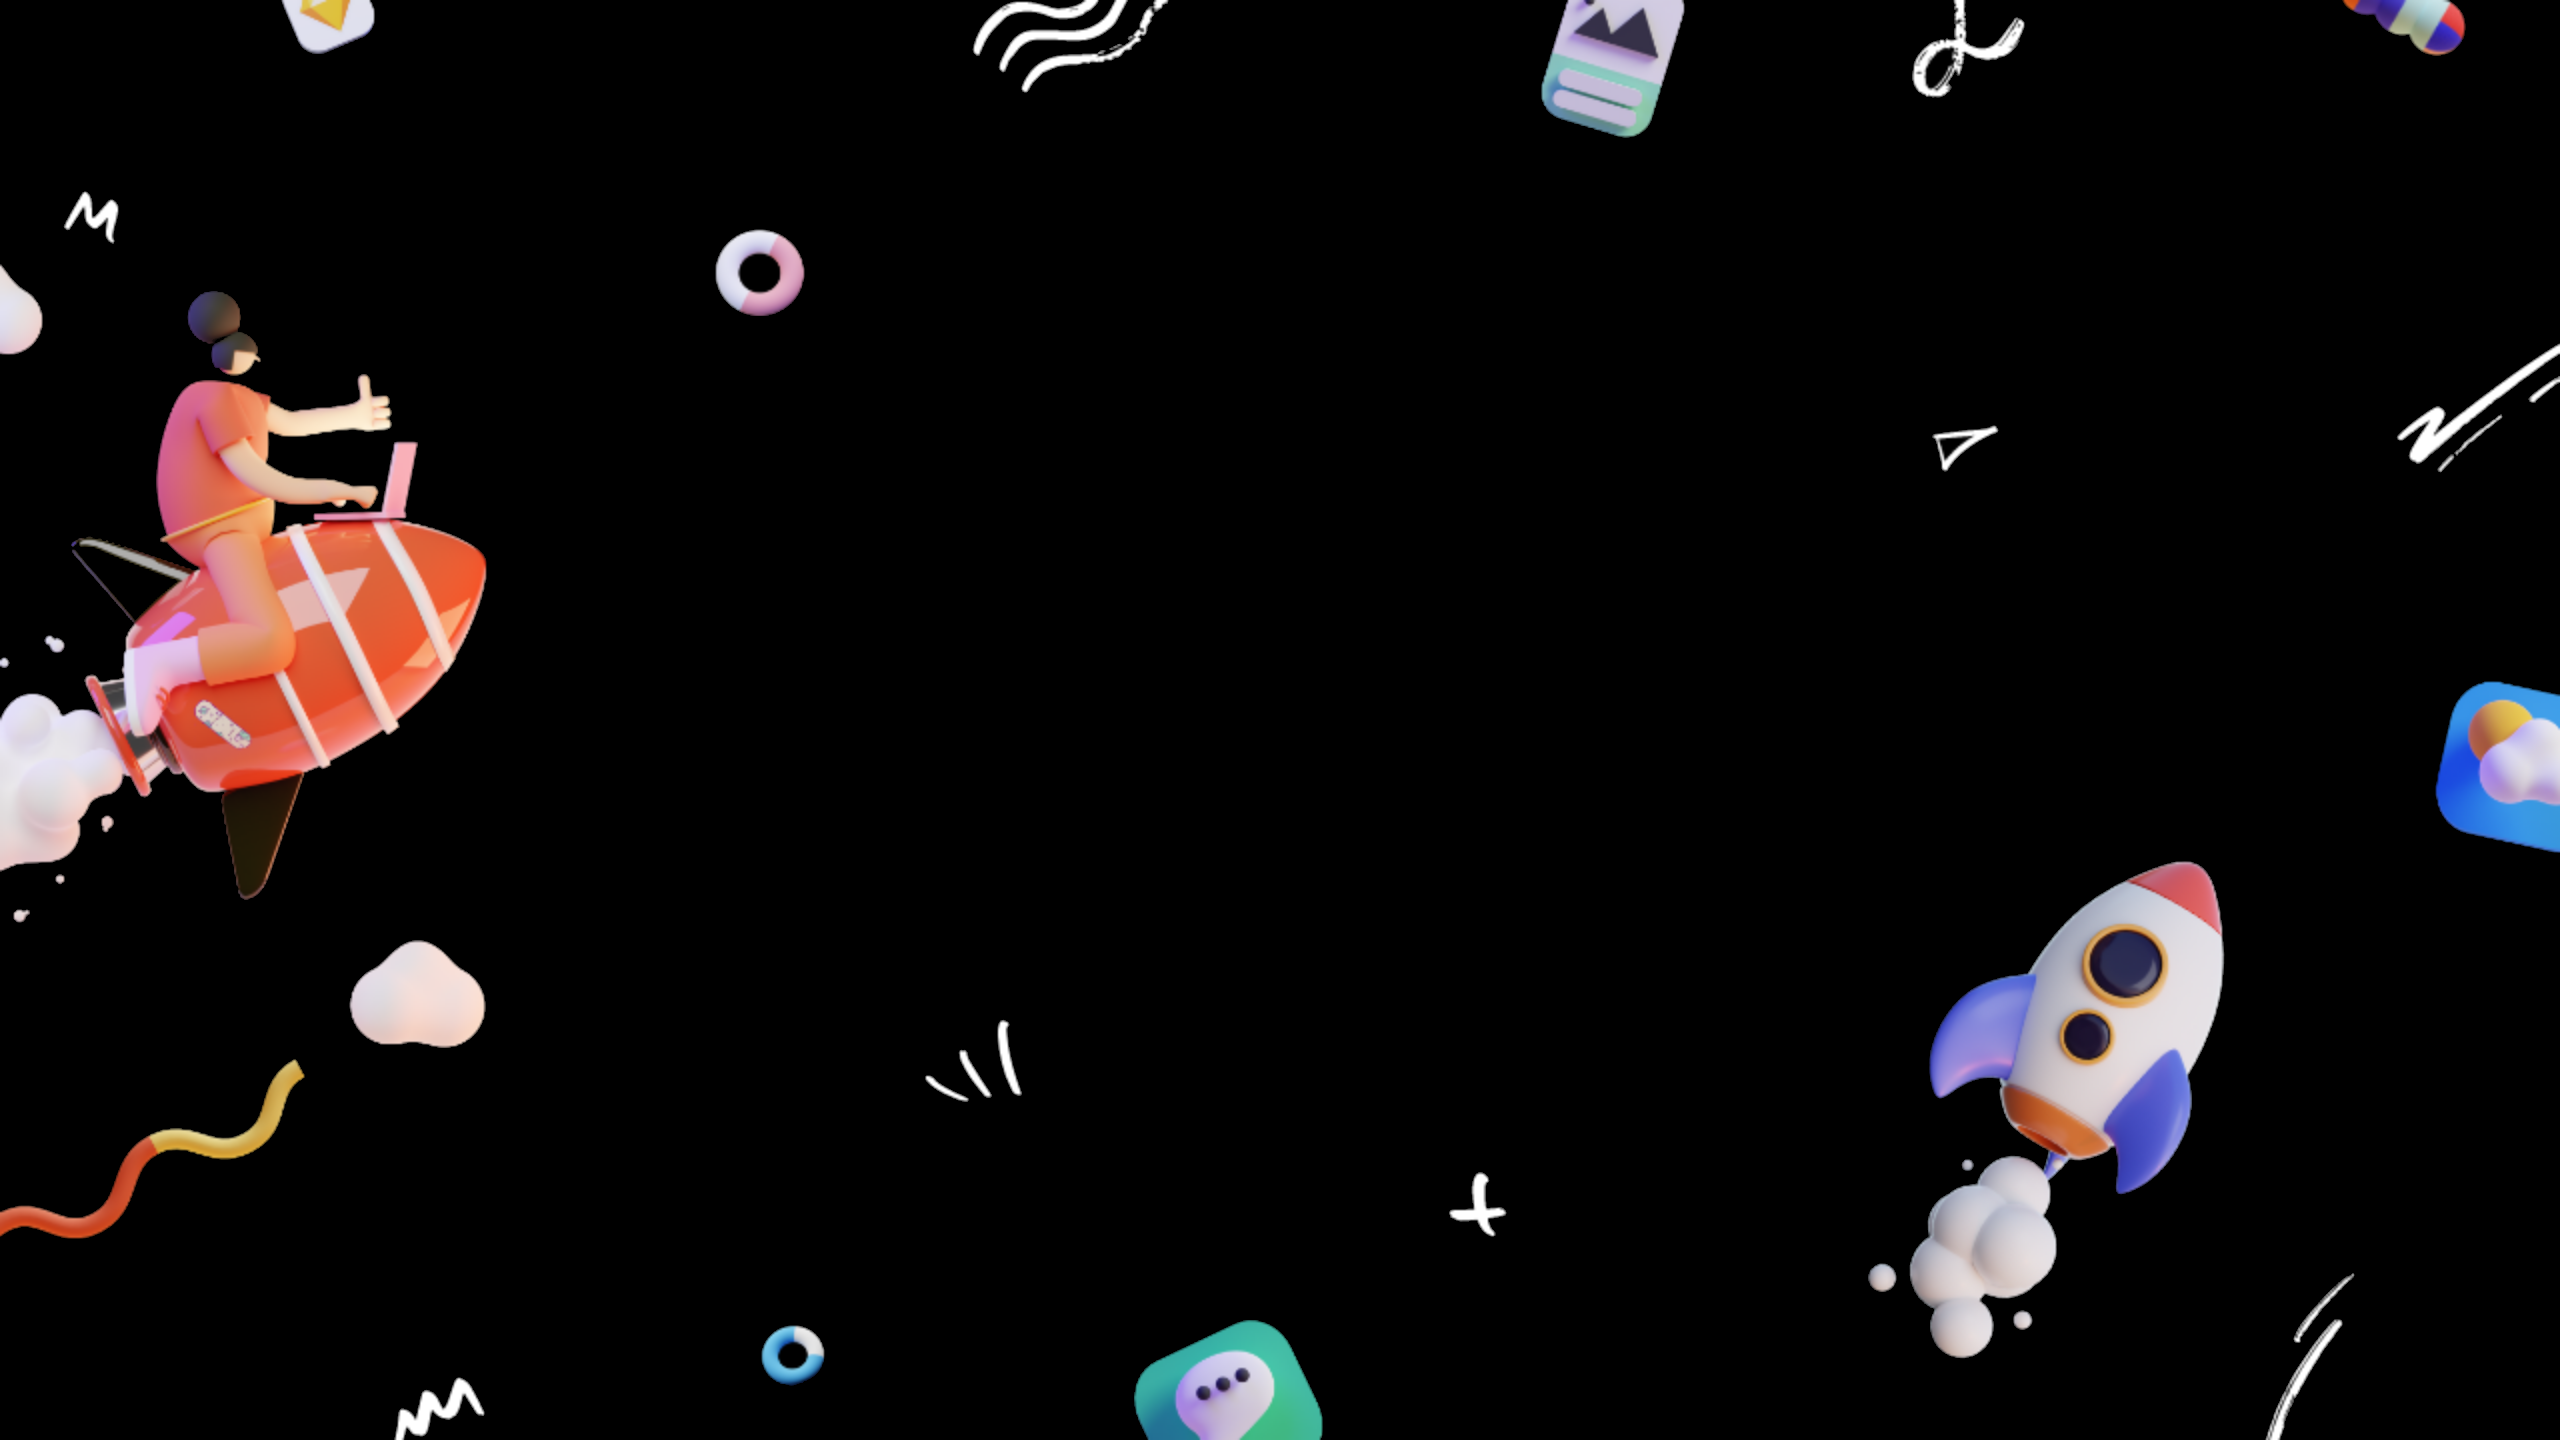
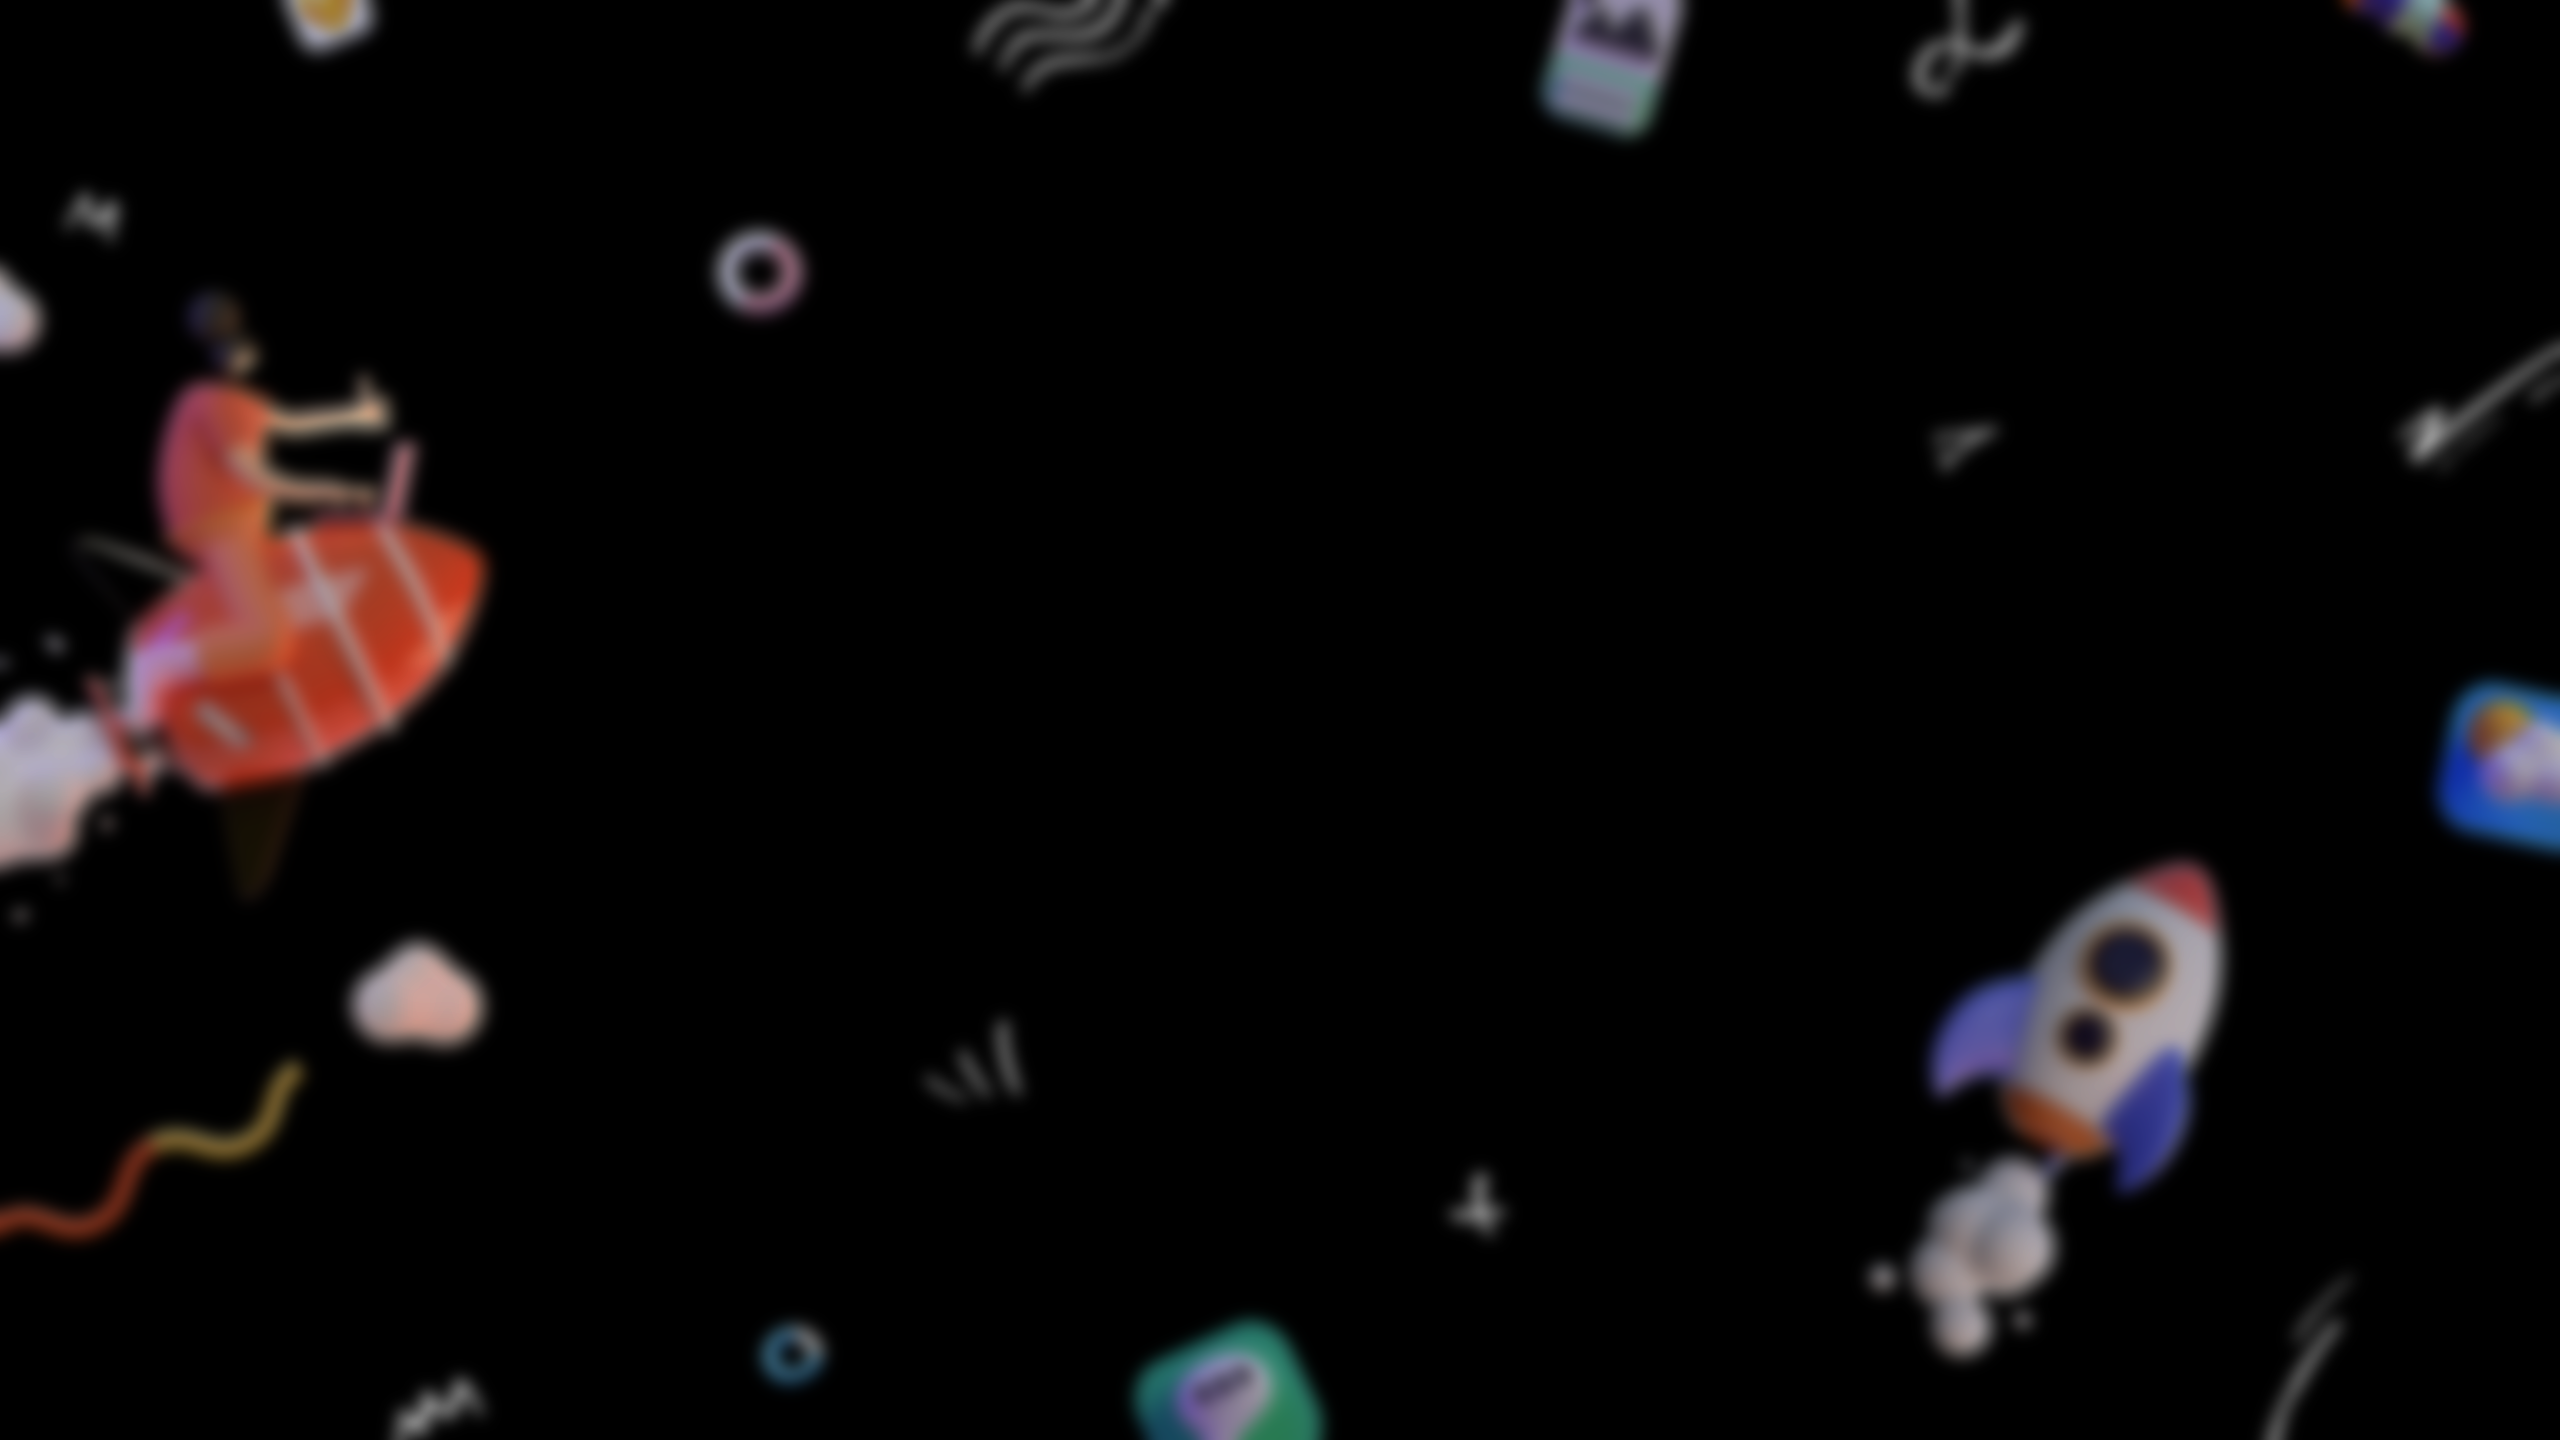
2023-11-27-2

diff --git a/src/components/content/folio/AboutMe.jsx b/src/components/content/folio/AboutMe.jsx
@@ -137,19 +137,19 @@ const AboutMe = () => {
             </s.HistoryItem>
             <s.HistoryItem>
               <s.HistoryDiv />
-              <p>회 AI 분석 플랫폼 ' 사랑회요 '</p>
+              <p>회 AI 분석 플랫폼, 사랑회요</p>
             </s.HistoryItem>
             <s.HistoryItem>
               <s.HistoryDiv />
-              <p>실시간 화상 스터디 ' STVDY '</p>
+              <p>실시간 화상 스터디 플랫폼, STVDY</p>
             </s.HistoryItem>
             <s.HistoryItem>
               <s.HistoryDiv />
-              <p>뇌질환자 언어 재활 어플리케이션 ' 내쉬다 '</p>
+              <p>뇌질환자 언어 재활 어플리케이션, 내쉬다</p>
             </s.HistoryItem>
             <s.HistoryItem>
               <s.HistoryDiv />
-              <p>학생용 협업 툴 ' dddev '</p>
+              <p>학생용 협업 툴, dddev</p>
             </s.HistoryItem>
           </s.History>
         </s.Specification>
@@ -249,10 +249,7 @@ const AboutMe = () => {
         </s.Skills>
         <s.ProjectWrapper>
           <s.ProjectTitle>[ 프로젝트 상세 ]</s.ProjectTitle>
-          <s.ProjectName>
-            <s.ProjectDiv />
-            <p>학생용 협업 툴 ' dddev '</p>
-          </s.ProjectName>
+          <s.ProjectName>학생용 협업 툴, dddev</s.ProjectName>
           <s.ProjectWindow>
             <Project />
           </s.ProjectWindow>

diff --git a/src/style/content/folio/AboutMe.js b/src/style/content/folio/AboutMe.js
@@ -224,15 +224,6 @@ export const SkillLineDiv = styled.span`
   height: 16px;
 `;
 
-export const ProjectTitle = styled.h3`
-  margin-top: 150px;
-  padding: 0 10px;
-
-  color: var(--font);
-  font-size: 1.5rem;
-  font-weight: 600;
-`;
-
 export const ModeButtonWrapper = styled.button`
   position: absolute;
   width: 50px;
@@ -315,6 +306,16 @@ export const ModeButtonWrapper = styled.button`
   cursor: pointer;
 `;
 
+export const ProjectTitle = styled.h3`
+  margin-top: 150px;
+  padding: 0 10px;
+
+  color: var(--font);
+  font-size: 1.5rem;
+  font-weight: 600;
+  margin-bottom: 10px;
+`;
+
 export const ProjectWrapper = styled.section`
   position: relative;
   max-width: 1125px;
@@ -323,25 +324,19 @@ export const ProjectWrapper = styled.section`
   margin: 0 auto;
 `;
 
-export const ProjectName = styled.span`
-  height: 29px;
-  padding: 0 10px;
-
+export const ProjectDate = styled.h2`
   font-size: 1.2rem;
-  font-weight: 500;
+  padding: 0 10px;
+  margin: 0;
+  color: var(--font);
+`;
 
-  display: flex;
-  align-items: center;
-
-  & > p {
-    margin: 0;
-    height: 17px;
-
-    line-height: 1;
-
-    display: flex;
-    align-items: center;
-  }
+export const ProjectName = styled.h2`
+  font-size: 1.8rem;
+  font-weight: 600;
+  padding: 0 10px;
+  margin: 0;
+  /* margin-top: -16px; */
 `;
 
 export const ProjectDiv = styled.div`

diff --git a/src/style/Global.js b/src/style/Global.js
@@ -89,6 +89,9 @@ export const GlobalStyle = createGlobalStyle`
     --border-lite: #ccc;
 
     --font: #fff;
+    --font80: #ffffff80;
+    --fontaa: #ffffffaa;
+    --fontcc: #ffffffcc;
     --font-highlight: #d5383f;
 
     --scroll: #888;
@@ -108,6 +111,9 @@ export const GlobalStyle = createGlobalStyle`
       --border-lite: #333;
 
       --font: #000;
+      --font80: #00000080;
+      --fontaa: #000000aa;
+      --fontcc: #000000cc;
       --font-highlight: #007fff;
 
       --scroll: #888;

diff --git a/src/style/common/TopBar.js b/src/style/common/TopBar.js
@@ -29,7 +29,7 @@ export const TitleWrapper = styled.nav`
   align-items: center;
 
   & > svg {
-    color: var(--font-highlight);
+    fill: var(--font-highlight);
     transition:
       opacity 0.2s ease,
       color 0.4s ease;

diff --git a/src/style/content/folio/project/Login.js b/src/style/content/folio/project/Login.js
@@ -8,10 +8,8 @@ export const Background = styled.div`
   & > div {
     width: 100%;
     height: 100%;
-  }
 
-  img {
-    filter: blur(4px) brightness(0.7);
+    overflow: hidden;
   }
 
   pointer-events: none;
